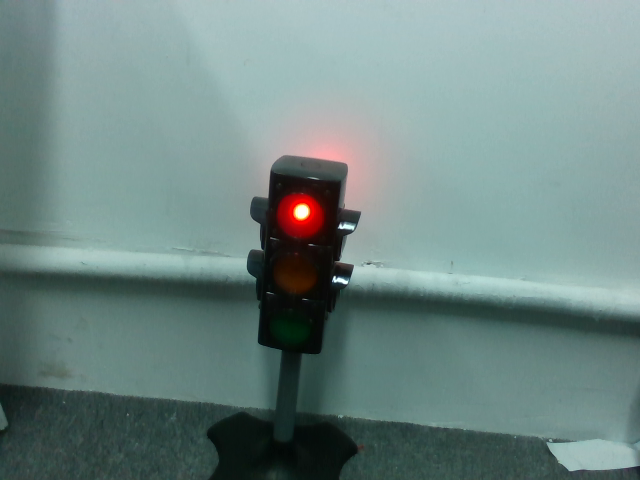
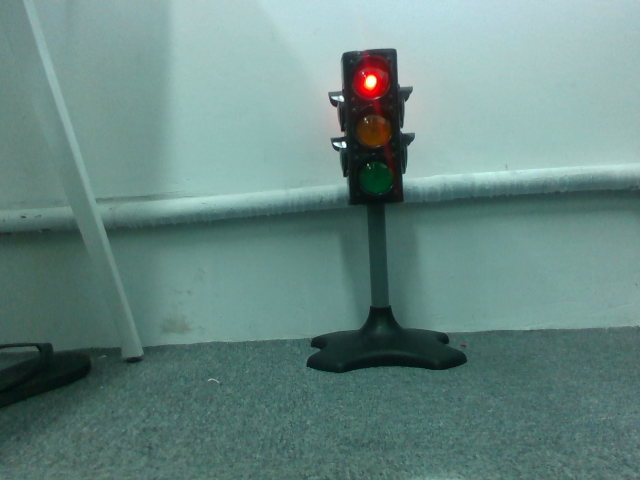
add image

diff --git a/limo_bringup/scripts/detect_traffic_lights.py b/limo_bringup/scripts/detect_traffic_lights.py
@@ -8,6 +8,10 @@ import matplotlib.image as mpimg
 
 from read_realsense_image import ReadImage
 
+import rospy
+from std_msgs.msg import String
+
+
 def DetectColor(image):
     hsv_img = cv2.cvtColor(image, cv2.COLOR_BGR2HSV)
 
@@ -123,23 +127,34 @@ def PlotLightResult(images):
 
 def PlotRealsenseResult(image):
     cv2.imshow("img", image)
-    cv2.imwrite("traffic_light.png", image)
+    cv2.imwrite("traffic_light_green.png", image)
     cv2.waitKey(0)
-    pass
+
+def callback(data):
+    rospy.loginfo(rospy.get_caller_id() + "I get : %s", data.data)
+
+def ROSSubscribe():
+    rospy.init_node('traffic_light_detecter')
+    rospy.Subscriber("detect_light", String , callback)
+
+    rate = rospy.Rate(10)
+    while not rospy.is_shutdown():
+        rate.sleep()
 
 if __name__ == "__main__":
 
-    # use local image
+    # # use local image
     # light_img_path = ["images/red.jpg", "images/yellow.png", "images/green.png"]
-    light_img_path = ["traffic_light_roi.png"]
+    # light_img_path = ["traffic_light_roi.png"]
+    # random.shuffle(light_img_path)
+    # PlotLightResult(light_img_path)
 
-    random.shuffle(light_img_path)
-    PlotLightResult(light_img_path)
+    # use realsense capture image
+    ri = ReadImage()
+    image = ri.read()
+    if image is not None:
+        PlotRealsenseResult(image)
+    else:
+        print("can not read realsense image")
 
-    # # use realsense capture image
-    # ri = ReadImage()
-    # image = ri.read()
-    # if image is not None:
-    #     PlotRealsenseResult(image)
-    # else:
-    #     print("can not read realsense image")
+    # ROSSubscribe()

diff --git a/limo_base/src/limo_messenger.cpp b/limo_base/src/limo_messenger.cpp
@@ -54,7 +54,8 @@ void LimoROSMessenger::TwistCmdCallback(
   switch (motion_mode_) {
     case LimoSetting::MOTION_MODE_FOUR_WHEEL_DIFF: {
       if (motion_mode_string_ == "mcnamu") {
-        limo_->SetMotionCommand(msg->linear.x, 0, msg->linear.y, msg->angular.z);
+        limo_->SetMotionCommand(msg->linear.x, 0, msg->linear.y,
+                                msg->angular.z);
       } else {
         limo_->SetMotionCommand(msg->linear.x, 0, 0, msg->angular.z);
       }
@@ -136,7 +137,6 @@ void LimoROSMessenger::PublishStateToROS() {
       radius = r;
     } break;
     default:
-      ROS_INFO("motion mode not support: %d", motion_mode_);
       break;
   }
 
